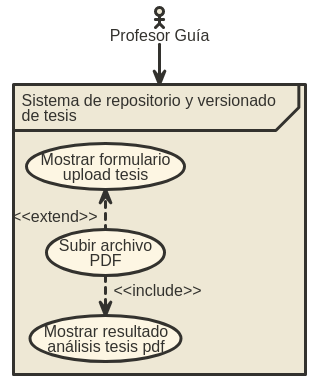
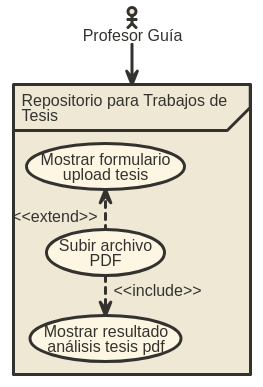
Se corrigen errores de sintaxis e imágenes

Changed region(s): [[0.0304, 0.2171, 0.8821, 0.9922], [0.3042, 0.0, 0.6996, 0.2171], [0.8517, 0.2171, 0.9734, 0.9922]]

diff --git a/docs/9 - anexos.rst b/docs/9 - anexos.rst
@@ -70,9 +70,8 @@ Anexos
 *C. Código Diagrama de Casos de Uso con CodeToUml*
 ^^^^^^^^^^^^^^^^^^^^^^^^^^^^^^^^^^^^^^^^^^^^^
 
-[<actor> Alumno Tesista]
-[<actor> Profesor Guía] -> [<frame> Sistema de repositorio y versionado ;de tesis]
-[<frame> Sistema de repositorio y versionado ;de tesis
+[<actor> Profesor Guía] -> [<frame> Repositorio para Trabajos de; Tesis]
+[<frame> Repositorio para Trabajos de; Tesis
 |
   [<usecase> Mostrar formulario; upload tesis] <-- <<extend>>  [<usecase> Subir archivo; PDF]
   
